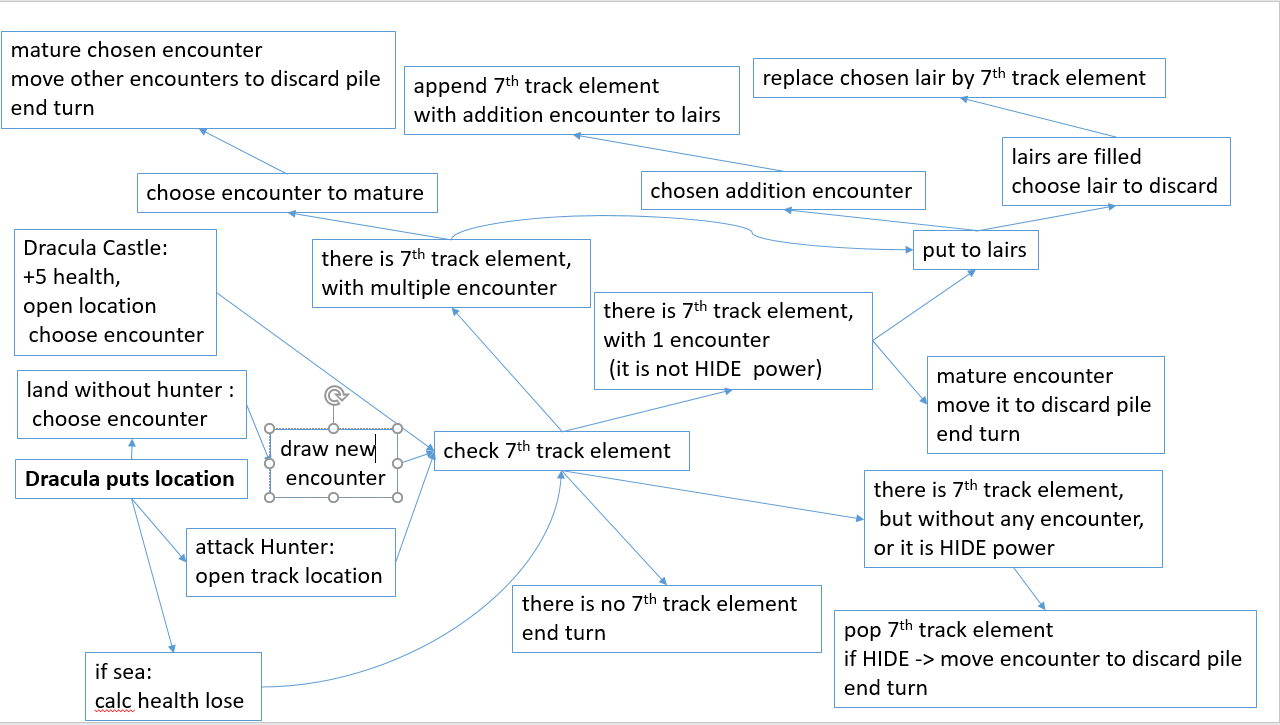
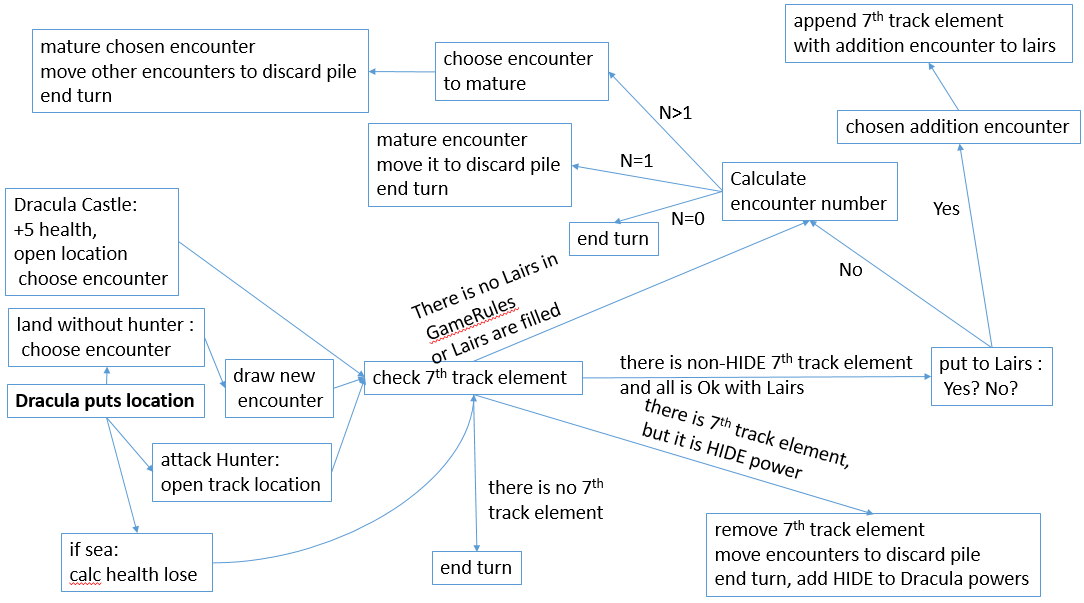
continue put_encounter, Track, Lair, Mature logic prcoessing and test, fix behaviour graph for put_encounter

diff --git a/game/src/gamestate/dracula.py b/game/src/gamestate/dracula.py
@@ -37,11 +37,12 @@ class Dracula(Player):
         self.health = 15
         self.max_health = 15
         self.track = []  # list of TrackElement
+        self.lairs = []
         self.max_encounter_num = 5
         self.encounters = []
         self.outside_element = None  # when Dracula track is filled, the last track element is popped
 
-    def draw_encounter(self, encounter_deck:Deck):
+    def draw_encounter(self, encounter_deck: Deck):
         encounter = encounter_deck.draw()
         self.encounters.append(encounter)
 
@@ -50,46 +51,77 @@ class Dracula(Player):
         is_sea = Loader.location_dict[self.location_num]["isSea"]
         location = Card(name=location_num, is_opened=False)
         element = TrackElement(location=location)
-        self.track.insert(0, element)
+        lair_idx = self.get_location_in_lairs(location_num)
+        if lair_idx is not None:
+            self.track.insert(0, self.lairs.pop(lair_idx))
+            self.track[0].location.is_opened = True
+        else:
+            self.track.insert(0, element)
         if len(self.track) > TRACK_LENGTH:
             self.outside_element = self.track.pop()
         if self.attack_hunter(players) or is_sea:
-            self.process_outside_track_element(state, possible_actions)
+            self.process_outside_track_element(state, players, possible_actions)
             return   # no encounter if Dracula attacks or it is  sea
         possible_actions.append(ACTION_CHOOSE_ENCOUNTER)
 
-    def put_encounter(self, encounter_num: int, track_num: int):
+    def get_location_in_lairs(self, location_num):
+        for idx, lair in enumerate(self.lairs):
+            if lair.location.name == location_num:
+                return idx
+        return None
+
+    def put_encounter_to_track(self, encounter_num: int, track_num: int):
         encounter_name = self.encounters.pop(encounter_num)
         encounter_obj = eval(f"{encounter_name}()")  # encounter string name to class name
         logger.info(f"Dracula puts {encounter_name} to hideout {track_num}")
         self.track[track_num].encounters.append(encounter_obj)
 
+    def put_encounter_to_lairs(self, state: GameState, players: list, possible_actions: list, additional_encounter: str):
+        logger.info(f"put_encounter_to_lairs with additional_encounter = {additional_encounter}")
+        encounter_obj = eval(f"{additional_encounter}()")  # encounter string name to class name
+        self.outside_element.encounters.append(encounter_obj)
+        self.lairs.insert(0, self.outside_element)
+        self.outside_element = None
+
+    def mature_encounters(self, state: GameState, players: list, possible_actions: list):
+        encounter_num = len(self.outside_element.encounters)
+        if encounter_num == 0:
+            return
+        elif encounter_num == 1:
+            self.mature_encounter(state, players, possible_actions, 0)
+        elif encounter_num > 1:
+            possible_actions.append(ACTION_CHOOSE_MATURED_ENCOUNTER)
+
+    def discard_lair(self, state: GameState, index):
+        for encounter in self.lairs[index].encounters:
+            state.put_encounter_to_discard(encounter)
+        self.lairs.pop(index)
 
     # in game rule it is 7th track element
     def process_outside_track_element(self, state: GameState, players: list, possible_actions: list):
+        logger.info("process_outside_track_element")
         if self.outside_element is None:
             logger.info("there is no outside track element")
-        else:
-            if self.outside_element.encounters is None:
-                self.outside_element = None  # TODO : powers maybe here -> counter of power using
-            else:
-                if self.outside_element.power == HIDE_POWER:
-                    for encounter in self.outside_element.encounters:
-                        state.encounter_deck.discard(encounter)
-                        return
-                if Param.use_lair:
-                    possible_actions.append(ACTION_PUT_LAIR)
-                    return
-                else:
-                    if len(self.outside_element.encounters) == 1:
-                        self.mature_encounter(state, players, possible_actions, 0)
-                    else:
-                        possible_actions.append(ACTION_CHOOSE_MATURED_ENCOUNTER)
+            return
+        logger.info("there is outside track element!")
+        if self.outside_element.power == HIDE_POWER:
+            logger.info("THe encounter on Hide power cannot be matured and this card cannot be sent to Dracula Lair")
+            for encounter in self.outside_element.encounters:
+                state.put_encounter_to_discard(encounter)
+                self.outside_element = None
+                return
+        if Param.use_lair and len(self.lairs) <= LAIR_LENGTH:  # game config
+            possible_actions.append(ACTION_IS_PUT_TO_LAIR)
+            return
+        self.mature_encounters(state, players, possible_actions)
+        self.outside_element = None
 
     def mature_encounter(self, state: GameState, players: list, possible_actions: list, encounter_num: int):
         encounter = self.outside_element.encounters[encounter_num]
         encounter.mature(state, players, possible_actions)
-        state.encounter_deck.discard(encounter)
+        for encounter in self.outside_element.encounters:
+            state.put_encounter_to_discard(encounter)
+        self.outside_element = None
 
     def attack_hunter(self,  players: list):
         logger.info("reveal_track")
@@ -112,6 +144,8 @@ class Dracula(Player):
 
     def start_turn(self, state: GameState, possible_actions: list):
         super().start_turn(state, possible_actions)
+        if len(self.lairs) > 0:
+            possible_actions.append(ACTION_DISCARD_LAIR)
         possible_actions += self.get_movement_option()
         if len(possible_actions) == 0:
             Loader.append_log("Dracula has no possible actions => track is cleared and Dracula health "

diff --git a/game/src/tests/put_encounter.py b/game/src/tests/put_encounter.py
@@ -3,6 +3,8 @@ from common_in_tests import *
 
 if __name__ == '__main__':
     logger.set_level('WARNING')
+    Param.use_lair = True
+
     swith_on_exceptions()
     use_gui = False
     controller, app, mainScreen = get_controller(use_gui=use_gui)
@@ -51,6 +53,84 @@ if __name__ == '__main__':
     logger.warning("Dracula track:")
     for i, hideout in enumerate(dracula.track):
         logger.warning(f"{i} : {hideout}")
+
+    for i in range(9):
+        controller.process_action(ACTION_NEXT)
+    logger.warning("Dracula moves from Brussels to Cologne and meet Lord")
+    controller.process_action(ACTION_LOCATION + f"_{27}")
+    check_sets({ACTION_NEXT}, set(controller.possible_actions))
+    logger.warning("Dracula track:")
+    for i, hideout in enumerate(dracula.track):
+        logger.warning(f"{i} : {hideout}")
+
+    controller.process_action(ACTION_NEXT)
+    # Here is day COMBAT between Lord and Dracula
+    logger.warning("Lord moves from Cologne to Frankfurt")
+    controller.process_action(ACTION_LOCATION + f"_{57}")
+    for i in range(8):
+        controller.process_action(ACTION_NEXT)
+    logger.warning("Dracula moves from Cologne to Strasbourg")
+    controller.process_action(ACTION_LOCATION + f"_{53}")
+    check_sets({ACTION_CHOOSE_ENCOUNTER}, set(controller.possible_actions))
+    controller.process_action(ACTION_CHOOSE_ENCOUNTER + "_2")
+    check_lists(["UNNATURAL_FOG"] + 2 * ["SPY"], controller.state.encounter_deck.cards)
+    check_lists(["RATS"] + ["SZGANY_BODYGUARDS"] + 2 * ["SZGANY_MOB"] + ["UNNATURAL_FOG"], dracula.encounters)
+    check_sets({"WOLVES"}, {dracula.track[0].encounters[0].__class__.__name__})
+
+    logger.warning("Dracula track:")
+    for i, hideout in enumerate(dracula.track):
+        logger.warning(f"{i} : {hideout}")
+
+    check_sets({ACTION_NEXT}, set(controller.possible_actions))
+    controller.process_action(ACTION_NEXT)
+    for i in range(8):
+        controller.process_action(ACTION_NEXT)
+    logger.warning("Dracula moves from Strasbourg to Zurich")
+    controller.process_action(ACTION_LOCATION + f"_{58}")
+    check_sets({ACTION_CHOOSE_ENCOUNTER}, set(controller.possible_actions))
+    controller.process_action(ACTION_CHOOSE_ENCOUNTER + "_0")
+    check_lists(2 * ["SPY"], controller.state.encounter_deck.cards)
+    check_lists(["SZGANY_BODYGUARDS"] + 2 * ["SZGANY_MOB"] + 2 * ["UNNATURAL_FOG"], dracula.encounters)
+    check_sets({ACTION_NEXT}, set(controller.possible_actions))
+    logger.warning("Dracula track:")
+    for i, hideout in enumerate(dracula.track):
+        logger.warning(f"{i} : {hideout}")
+    controller.process_action(ACTION_NEXT)
+
+    logger.warning("Lord moves from Strasbourg with Dracula encounter")
+    controller.process_action(ACTION_LOCATION + f"_{53}")
+    logger.warning("Dracula chooses to do not ambush")
+    check_lists([DRACULA], [controller.state.who_moves])
+    check_sets({ACTION_IS_AMBUSHED}, set(controller.possible_actions))
+    controller.process_action(ACTION_IS_AMBUSHED + f"_{0}")
+    check_lists([LORD], [controller.state.who_moves])
+    check_sets({ACTION_NEXT}, set(controller.possible_actions))
+
+    for i in range(8):
+        controller.process_action(ACTION_NEXT)
+
+    logger.warning("Dracula moves from Zurich to Milan and put Geneva to Lairs")
+    controller.process_action(ACTION_LOCATION + f"_{22}")
+    check_sets({ACTION_CHOOSE_ENCOUNTER}, set(controller.possible_actions))
+    controller.process_action(ACTION_CHOOSE_ENCOUNTER + "_0")
+    check_lists(["SPY"], controller.state.encounter_deck.cards)
+    check_lists(2 * ["SZGANY_MOB"] + 2 * ["UNNATURAL_FOG"] + ["SPY"], dracula.encounters)
+    check_sets({ACTION_IS_PUT_TO_LAIR}, set(controller.possible_actions))
+    controller.process_action(ACTION_IS_PUT_TO_LAIR + "_1")
+    check_sets({ACTION_CHOOSE_LAIR_ENCOUNTER}, set(controller.possible_actions))
+    controller.process_action(ACTION_CHOOSE_LAIR_ENCOUNTER + "_0")
+    check_sets({"SZGANY_MOB"}, {dracula.lairs[0].encounters[0].__class__.__name__})
+    print(controller.possible_actions)
+
+    logger.warning("Dracula track:")
+    for i, hideout in enumerate(dracula.track):
+        logger.warning(f"{i} : {hideout}")
+
+    logger.warning("Dracula Lairs:")
+    for i, hideout in enumerate(dracula.lairs):
+        logger.warning(f"{i} : {hideout}")
+
+    # TODO : 1) check encounter maturing and 2) several encounter maturing (just add new encounter) 3) add 2nd encounter to lair
 
     if use_gui:
         app.exec()

diff --git a/game/src/gamecontroller/gamecontroller.py b/game/src/gamecontroller/gamecontroller.py
@@ -43,7 +43,20 @@ class GameController(QObject):
                 self.possible_actions = self.get_current_player().possible_actions
                 logger.info(f"triggered action finished who_moves = {self.state.who_moves},  self.possible_actions = "
                             f"{ self.possible_actions}, self.state.in_queue = {self.state.in_queue}")
-        # self.state.in_queue = []
+        elif ACTION_IS_AMBUSHED in action and self.state.who_moves == DRACULA:   # Dracula discard 5th event
+            is_ambushed = bool(action.split("_")[-1])  # 1 - is ambushed, 0 - is not ambushed
+            self.state.who_moves = self.state.in_queue.pop()
+            if is_ambushed:
+                track_elem = self.players[DRACULA].track[self.state.encountered_in]
+                self.state.card_on_board = track_elem.encounters
+                loc = self.get_current_player().location_num  # Dracula ambushes each player at the location
+                self.state.ambushed_hunters = [i for i in range(1, 5) if self.players[i].location_num == loc]
+                for num, encounter in enumerate(self.state.card_on_board):
+                    self.state.current_encounter_num = num
+                    encounter.process(self.state, self.players, self.possible_actions)
+            else:
+                Loader.append_log(f"Dracula does not ambush {Loader.num_to_player(self.state.who_moves)}")
+                self.possible_actions = self.get_current_player().possible_actions
 
     def process_action(self, action):
         logger.info(f"process_action({action})")
@@ -91,12 +104,26 @@ class GameController(QObject):
             elif action == ACTION_SUPPLY:
                 self.get_current_player().supply(self.state, self.possible_actions, self.players)
             elif ACTION_CHOOSE_ENCOUNTER in action:
-                dracula.put_encounter(action_num, 0)
+                dracula.put_encounter_to_track(action_num, 0)
                 if len(dracula.encounters) < dracula.max_encounter_num:
                     dracula.draw_encounter(self.state.encounter_deck)
                 dracula.process_outside_track_element(self.state, self.players, self.possible_actions)
             elif ACTION_CHOOSE_MATURED_ENCOUNTER in action:
                 dracula.mature_encounter(self.state, self.possible_actions, self.players, action_num)
+            elif ACTION_IS_PUT_TO_LAIR in action:
+                is_put = bool(action_num)
+                if is_put:
+                    self.possible_actions = [ACTION_CHOOSE_LAIR_ENCOUNTER]
+                else:
+                    dracula.mature_encounters(self.state, self.players, self.possible_actions)
+            elif ACTION_CHOOSE_LAIR_ENCOUNTER in action:
+                dracula.put_encounter_to_lairs(self.state, self.players, self.possible_actions, dracula.encounters[action_num])
+                if len(dracula.encounters) < dracula.max_encounter_num:
+                    dracula.draw_encounter(self.state.encounter_deck)
+            elif ACTION_DISCARD_LAIR in action:
+                self.possible_actions = [ACTION_CHOOSE_LAIR_TO_DISCARD]
+            elif ACTION_CHOOSE_LAIR_TO_DISCARD in action:
+                dracula.discard_lair(self.state, action_num)
 
         self.states.append(self.state)
         if len(self.possible_actions) == 0:

diff --git a/game/src/gamestate/player.py b/game/src/gamestate/player.py
@@ -104,17 +104,27 @@ class Hunter(Player):
             state.tickets_deck.discard(ticket)
             Loader.append_log(f"{Loader.num_to_player(state.who_moves)} has used ticket {ticket}. ")
             self.chosen_ticket_num = None
-        self.reveal_track(players)
+        self.reveal_track(state, possible_actions, players)
 
-    def reveal_track(self, players: list):
+    def reveal_track(self, state: GameState, possible_actions: list, players: list):
         logger.info("reveal_track")
-        for elem in players[0].track:
+        for track_idx, elem in enumerate(players[0].track):
             is_sea = Loader.location_dict[self.location_num]["isSea"]
             if self.location_num == elem.location.name and not is_sea and not elem.location.is_opened:
                 elem.location.is_opened = True
+                if elem.power is not None:
+                    elem.power.is_opened = True  # e.g. open Hide power
                 Loader.append_log(f"{self.name} reveals the Dracula hideout in {Loader.location_dict[self.location_num]['name']}. ")
                 if self.location_num == players[0].location_num:
                     Loader.append_log("And it is current Dracula location! ")
+                if len(elem.encounters) > 0:
+                    logger.info(f"Dracula chooses to ambush {Loader.num_to_player(state.who_moves)} or not")
+                    state.in_queue.append(state.who_moves)
+                    state.who_moves = DRACULA
+                    self.possible_actions = possible_actions.copy()
+                    possible_actions.clear()
+                    possible_actions.append(ACTION_IS_AMBUSHED)
+                    state.encountered_in = track_idx
 
     def start_turn(self, state: GameState, possible_actions: list):
         super().start_turn(state, possible_actions)

diff --git a/game/src/gamecontroller/encounters.py b/game/src/gamecontroller/encounters.py
@@ -1,5 +1,6 @@
 from gamestate.gamestate import GameState
 from loader import Loader
+from common.constants import *
 
 
 class Encounter:
@@ -9,6 +10,11 @@ class Encounter:
     def mature(self, game_state: GameState, players:list, possible_actions: list):
         Loader.append_log(f"{self.__class__.__name__} is matured!")
         return
+
+    def discard(self, game_state: GameState, players: list):
+        encounter_name = self.__class__.__name__
+        game_state.encounter_deck.discard(encounter_name)
+        players[DRACULA].track[game_state.encountered_in].encounters.pop(game_state.current_encounter_num)
 
 
 class ARISTOCRATIC_VAMPIRE(Encounter):
@@ -38,6 +44,7 @@ class NEW_VAMPIRE(Encounter):
 
 class RATS(Encounter):
     def process(self, game_state: GameState, players: list, possible_actions: list):
+        self.discard(game_state, players)
         return
 
 

diff --git a/game/src/gamestate/gamestate.py b/game/src/gamestate/gamestate.py
@@ -10,6 +10,9 @@ class GameState:
         logger.info(f"GameState constructor")
         self.who_moves = 1  # TODO - Enum
         self.in_queue = []  # who_moves in queue
+        self.encountered_in = None  # track element number where Hunters could be ambushed or None
+        self.ambushed_hunters = []
+        self.current_encounter_num = None  # case of several encounters inside track element
         self.phase = Phase.FIRST_TURN
         self.player_phase = begin
         self.day_num = -1
@@ -30,3 +33,6 @@ class GameState:
             if name not in ["BACK_DRACULA", "BACK_HUNTER"]:
                 event_cards += event["number"] * [name]
         self.event_deck = Deck(cards=event_cards, deck_name="Events")
+
+    def put_encounter_to_discard(self, encounter):
+        self.encounter_deck.discard(encounter.__class__.__name__)

diff --git a/game/src/common/constants.py b/game/src/common/constants.py
@@ -37,9 +37,14 @@ ACTION_DISCARD_ITEM = "ActionDiscardItem"
 ACTION_DISCARD_EVENT = "ActionDiscardEvent"
 ACTION_SUPPLY = "ActionSupply"
 ACTION_CHOOSE_ENCOUNTER = "ActionChooseEncounter"
-ACTION_PUT_LAIR = "ActionPutLair"
+ACTION_IS_PUT_TO_LAIR = "ActionIsPutToLair"
 ACTION_CHOOSE_MATURED_ENCOUNTER = "ActionChooseMaturedEncounter"
+ACTION_CHOOSE_LAIR_ENCOUNTER = "ActionChooseLairEncounter"
+ACTION_IS_AMBUSHED = "ActionIsAmbushed"
+ACTION_DISCARD_LAIR = "ActionDiscardLair"
+ACTION_CHOOSE_LAIR_TO_DISCARD = "ChooseLairToDiscard"
 
 TRACK_LENGTH = 6
+LAIR_LENGTH = 3
 
 MOVEMENT_ACTIONS = {ACTION_MOVE_BY_ROAD, ACTION_MOVE_BY_SEA, ACTION_MOVE_BY_RAILWAY, TICKET_1, TICKET_2}

diff --git a/game/src/game_param.py b/game/src/game_param.py
@@ -2,4 +2,4 @@ class Param:
     who_are_you = [0, 1, 2, 3, 4]
     is_dracula_ai = False
     hunter_ai = []
-    use_lair = False
+    use_lair = True
